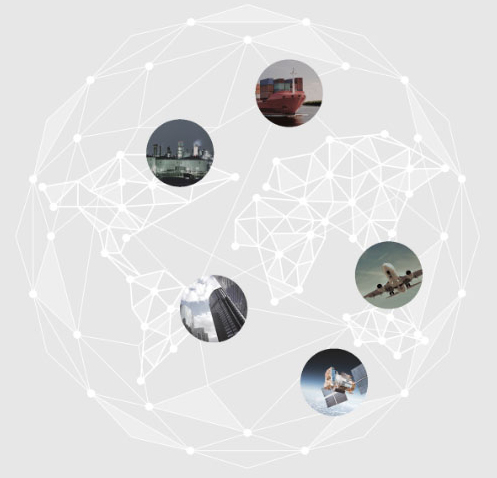
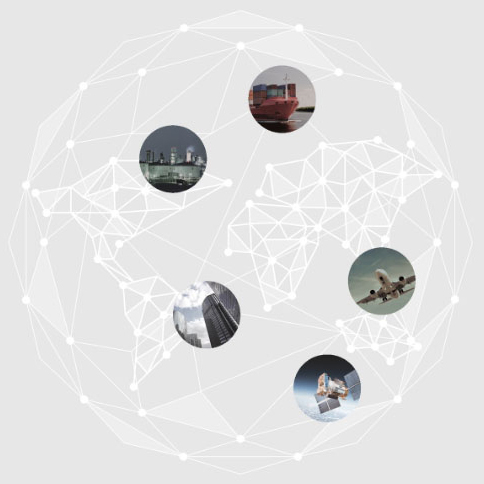
.

diff --git a/css/layout.css b/css/layout.css
@@ -175,11 +175,11 @@ min-width: 110px; min-height: 40px; background-color: #353535; border-bottom-lef
 
 /* 컴퍼니 페이지 */
 .container .content .title_box + .contents_box.type_company{margin-top: 20px;}
-.content .contents_box.type_company{display: flex; justify-content: center; gap: 0 20px; padding: 40px; min-height: 610px; background-color: #e7e7e7; background-image: url('../images/company_bg.jpg'); background-position: right bottom; background-repeat: no-repeat; box-sizing: border-box;}
-.content .contents_box.type_company .earth_img{width: 497px; height: 478px; margin-top: auto; margin-bottom: auto; background: url('../images/company_earth.jpg') no-repeat center;}
-.content .contents_box.type_company .contents_wrap{display: flex; flex-direction: column; margin-top: 30px;}
-.contents_box.type_company .cont_group + .cont_group{margin-top: 20px; padding-top: 0px; border-top: 0px solid #ddd;}
-.contents_box.type_company .cont_group{display: flex; padding-bottom: 20px; max-width: 700px;}
+.content .contents_box.type_company{display: flex; justify-content: center; gap: 0 20px; padding: 40px; min-height: 515px; background-color: #e7e7e7; background-image: url('../images/company_bg.jpg'); background-position: right bottom; background-repeat: no-repeat; box-sizing: border-box;}
+.content .contents_box.type_company .earth_img{width: 420px; height: 420px; margin-top: auto; margin-bottom: auto; background: url('../images/company_earth.jpg') no-repeat center; background-size: contain;}
+.content .contents_box.type_company .contents_wrap{display: flex; flex-direction: column;}
+.contents_box.type_company .cont_group + .cont_group{margin-top: 14px; padding-top: 0px; border-top: 0px solid #ddd;}
+.contents_box.type_company .cont_group{display: flex; padding-bottom: 14px; max-width: 800px;}
 .contents_box.type_company .cont_group .title_area{width: 20%;}
 .contents_box.type_company .title_area .title .tit_icon{display: flex; align-items: center; font-size: 0px; color: #18ab94; width: 16px; height: 16px; background-color: #e7e7e7; border: 5px inset #18ab94; border-radius: 50%; box-sizing: border-box;}
 .contents_box.type_company .title_area .title .tit_txt{font-size: 24px; font-weight: 600; color: #18ab94;}
@@ -190,7 +190,7 @@ min-width: 110px; min-height: 40px; background-color: #353535; border-bottom-lef
 .contents_box.type_company .cont_group .content_area .bgtit + .tit_con{margin-top: 8px;}
 .contents_box.type_company .cont_group .content_area .desc_con{font-size: 19px; line-height: 1.3; color: #474747;}
 .contents_box.type_company .cont_group .content_area .bgtit{display: inline-block; min-width: 210px; padding: 11px; text-align: center; color: #fff; font-size: 20px; background-color: #80c5b9; border-radius: 18px;}
-.contents_box.type_company .cont_group .content_area .tit_con{font-size: 22px; color: #18ab94;}
+.contents_box.type_company .cont_group .content_area .tit_con{font-size: 21px; color: #18ab94;}
 
 
 
